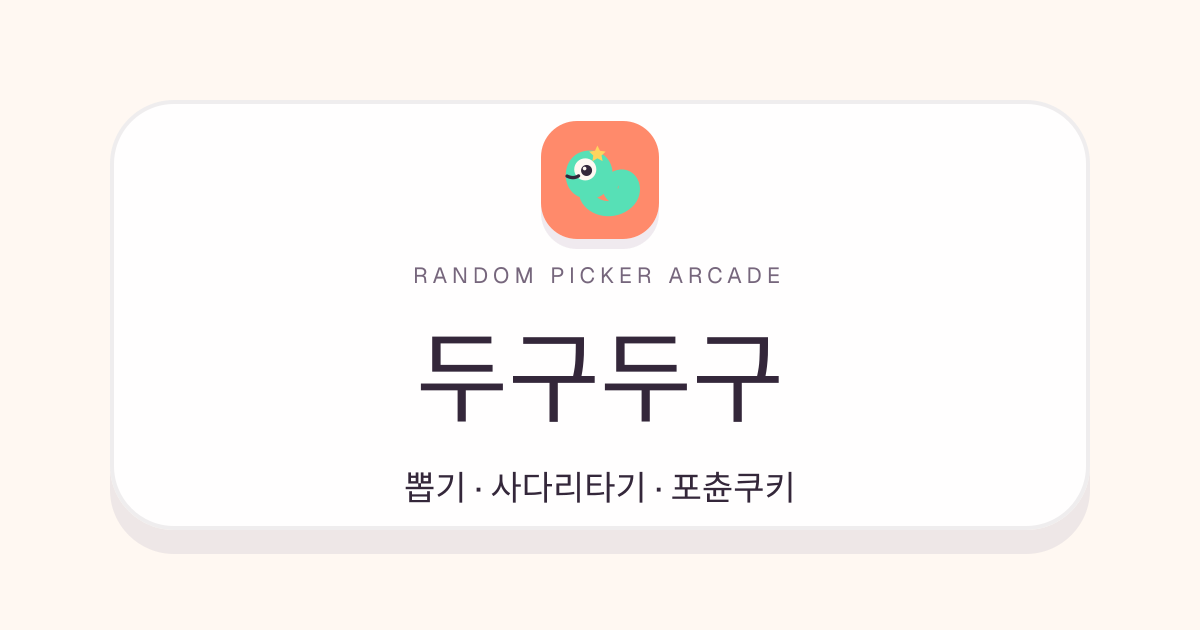
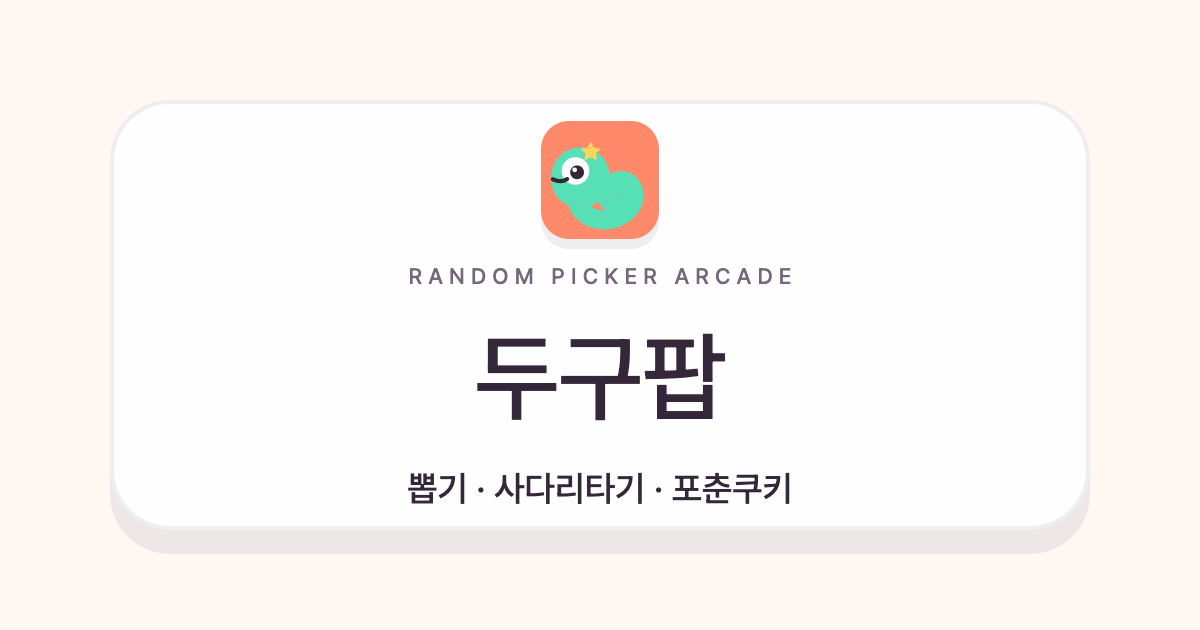
Rebrand to 두구팝 on dugupop.com
The product is now 두구팝 (Dugupop) at https://dugupop.com; the chameleon
mascot keeps its name 두구. Site names, titles, headings, structured-data
alternate names, the manifest, and the English lobby title (now carrying
keywords) use the new brand, and the social card is regenerated by a new
reproducible scripts/gen-social-card.mjs.

SITE_URL defaults to dugupop.com, so canonicals, hreflang, sitemap, robots,
and JSON-LD move with it. vercel.json 301s the former
dugudugu-chameleon.vercel.app host and www.dugupop.com to the apex with the
path kept, ahead of the legacy /ko and /games redirects; the redirect test
now covers host conditions. Sitemap lastmod reflects the rebrand.

diff --git a/lib/site.test.ts b/lib/site.test.ts
@@ -2,7 +2,7 @@ import { describe, expect, it } from "vitest";
 import { games } from "@/games/registry";
 import { localizedPathname, routing } from "@/i18n/routing";
 import vercelConfig from "@/vercel.json";
-import { languageAlternates, localizedPageUrl } from "./site";
+import { SITE_URL, languageAlternates, localizedPageUrl } from "./site";
 
 const pathnameOf = (url: string) => new URL(url).pathname;
 
@@ -25,15 +25,31 @@ describe("localized URLs", () => {
   });
 });
 
-describe("legacy URL redirects", () => {
-  // Mirrors Vercel's strict source matching for the `:param` rules used here.
-  function redirect(pathname: string) {
-    for (const rule of vercelConfig.redirects) {
+describe("URL redirects", () => {
+  type Rule = {
+    source: string;
+    destination: string;
+    statusCode: number;
+    has?: { type: string; value: string }[];
+  };
+  const rules: Rule[] = vercelConfig.redirects;
+  const canonicalHost = new URL(SITE_URL).host;
+
+  // Mirrors Vercel's strict matching for the `:param`, `:param(regex)`, and
+  // `has` host conditions used in vercel.json.
+  function redirect(pathname: string, host = canonicalHost) {
+    for (const rule of rules) {
+      if (rule.has?.some((when) => when.type === "host" && when.value !== host)) {
+        continue;
+      }
       const names: string[] = [];
-      const pattern = rule.source.replace(/:(\w+)/g, (_, name: string) => {
-        names.push(name);
-        return "([^/]+)";
-      });
+      const pattern = rule.source.replace(
+        /:(\w+)(?:\(([^)]*)\))?/g,
+        (_, name: string, custom?: string) => {
+          names.push(name);
+          return `(${custom ?? "[^/]+"})`;
+        },
+      );
       const match = new RegExp(`^${pattern}$`).exec(pathname);
       if (!match) continue;
 
@@ -46,6 +62,19 @@ describe("legacy URL redirects", () => {
     }
     return null;
   }
+
+  it("sends the former Vercel host and www to the canonical domain", () => {
+    for (const host of ["dugudugu-chameleon.vercel.app", "www.dugupop.com"]) {
+      expect(redirect("/", host)).toBe(`${SITE_URL}/`);
+      expect(redirect("/en/ladder/", host)).toBe(`${SITE_URL}/en/ladder/`);
+    }
+    expect(redirect("/ladder/")).toBeNull();
+
+    // An old share link reaches its page in two hops: host, then legacy path.
+    const hop = redirect("/ko/games/ladder/", "dugudugu-chameleon.vercel.app");
+    expect(hop).toBe(`${SITE_URL}/ko/games/ladder/`);
+    expect(redirect(new URL(hop!).pathname)).toBe("/ladder/");
+  });
 
   it("moves every former /<locale>/games/<slug> page to its canonical URL", () => {
     expect(redirect("/ko/")).toBe("/");

diff --git a/app/root-config.ts b/app/root-config.ts
@@ -39,23 +39,23 @@ export const rootMetadata: Metadata = {
   verification: {
     google: "V0LWQEMkzQlQoG6mGSp1UFldKcpsvuxhbgMof6G0fUE",
   },
-  applicationName: "두구두구",
+  applicationName: "두구팝",
   title: {
-    default: "사다리타기·랜덤 뽑기·포춘쿠키 미니게임 | 두구두구",
-    template: "%s | 두구두구",
+    default: "사다리타기·랜덤 뽑기·포춘쿠키 미니게임 | 두구팝",
+    template: "%s | 두구팝",
   },
   description:
-    "무료 사다리타기 게임, 캡슐 뽑기, 복불복 랜덤 선택, 포춘쿠키를 공정하고 귀엽게 즐기는 미니게임 두구두구.",
+    "무료 사다리타기 게임, 캡슐 뽑기, 복불복 랜덤 선택, 포춘쿠키를 공정하고 귀엽게 즐기는 미니게임 두구팝.",
   manifest: "/manifest.webmanifest",
   appleWebApp: {
     capable: true,
-    title: "두구두구",
+    title: "두구팝",
     statusBarStyle: "default",
   },
   openGraph: {
     type: "website",
-    siteName: "두구두구",
-    title: "두구두구 — 귀여운 랜덤 결정 아케이드",
+    siteName: "두구팝",
+    title: "두구팝 — 귀여운 랜덤 결정 아케이드",
     description:
       "캡슐 뽑기, 사다리타기, 포춘쿠키로 공정하고 귀엽게 결정해요.",
     images: [
@@ -63,7 +63,7 @@ export const rootMetadata: Metadata = {
         url: "/images/brand/social-card.png",
         width: 1200,
         height: 630,
-        alt: "두구두구 — 뽑기, 사다리타기, 포춘쿠키",
+        alt: "두구팝 — 뽑기, 사다리타기, 포춘쿠키",
       },
     ],
   },

diff --git a/lib/seo.test.ts b/lib/seo.test.ts
@@ -8,14 +8,14 @@ describe("gameJsonLd", () => {
       description: "무료 온라인 사다리타기 게임",
       url: "/ladder",
       locale: "ko",
-      alternateName: ["두구두구 사다리타기", "온라인 사다리 게임"],
+      alternateName: ["두구팝 사다리타기", "온라인 사다리 게임"],
       featureList: ["2–6명 사다리타기", "회원가입과 설치 없이 바로 이용"],
     });
 
     expect(data).toMatchObject({
       "@type": "WebApplication",
       name: "사다리타기",
-      alternateName: ["두구두구 사다리타기", "온라인 사다리 게임"],
+      alternateName: ["두구팝 사다리타기", "온라인 사다리 게임"],
       featureList: ["2–6명 사다리타기", "회원가입과 설치 없이 바로 이용"],
       inLanguage: "ko",
       isAccessibleForFree: true,

diff --git a/lib/seo.ts b/lib/seo.ts
@@ -14,12 +14,8 @@ export function websiteJsonLd() {
       {
         "@type": "WebSite",
         "@id": `${url}#website`,
-        name: "두구두구",
-        alternateName: [
-          "Dugudugu",
-          "두구두구 랜덤 아케이드",
-          hostname,
-        ],
+        name: "두구팝",
+        alternateName: ["Dugupop", "두구팝 미니게임", hostname],
         url,
         inLanguage: ["ko", "en"],
         publisher: { "@id": organizationId },
@@ -27,8 +23,8 @@ export function websiteJsonLd() {
       {
         "@type": "Organization",
         "@id": organizationId,
-        name: "두구두구",
-        alternateName: "Dugudugu",
+        name: "두구팝",
+        alternateName: "Dugupop",
         url,
         logo: {
           "@type": "ImageObject",

diff --git a/app/sitemap.ts b/app/sitemap.ts
@@ -5,12 +5,9 @@ import { languageAlternates, localizedPageUrl } from "@/lib/site";
 
 export const dynamic = "force-static";
 
-const DEFAULT_LAST_MEANINGFUL_UPDATE = new Date("2026-08-22T00:00:00+09:00");
-const GAME_LAST_MEANINGFUL_UPDATE: Partial<Record<string, Date>> = {
-  draw: new Date("2026-09-11T00:00:00+09:00"),
-  ladder: new Date("2026-09-11T00:00:00+09:00"),
-  fortune: new Date("2026-09-11T00:00:00+09:00"),
-};
+// The 두구팝 rebrand and dugupop.com move changed every page's title and URL.
+const DEFAULT_LAST_MEANINGFUL_UPDATE = new Date("2026-09-15T00:00:00+09:00");
+const GAME_LAST_MEANINGFUL_UPDATE: Partial<Record<string, Date>> = {};
 
 export default function sitemap(): MetadataRoute.Sitemap {
   const pages = [

diff --git a/app/manifest.ts b/app/manifest.ts
@@ -5,12 +5,10 @@ export const dynamic = "force-static";
 
 export default function manifest(): MetadataRoute.Manifest {
   return {
-    name: "두구두구 — 귀여운 랜덤 결정 아케이드",
-    short_name: "두구두구",
+    name: "두구팝 — 귀여운 랜덤 결정 아케이드",
+    short_name: "두구팝",
     description:
       "캡슐 뽑기, 사다리타기, 포춘쿠키로 공정하고 귀엽게 결정해요.",
-    // Installed apps are identified by the former start URL; keep that id.
-    id: "/ko/",
     start_url: "/",
     display: "standalone",
     background_color: "#fff8f2",

diff --git a/components/ui/TopBar.test.tsx b/components/ui/TopBar.test.tsx
@@ -26,10 +26,10 @@ afterEach(cleanup);
 
 describe("TopBar lobby brand", () => {
   it("keeps one clear home destination without utility controls", () => {
-    const view = render(<TopBar siteName="Dugudugu" />);
+    const view = render(<TopBar siteName="Dugupop" />);
 
     const header = view.getByRole("banner");
-    const home = view.getByRole("link", { name: "Dugudugu" });
+    const home = view.getByRole("link", { name: "Dugupop" });
 
     expect(header.className).toContain("z-40");
     expect(home.getAttribute("href")).toBe("/");

diff --git a/lib/site.ts b/lib/site.ts
@@ -1,6 +1,6 @@
 import { localizedPathname, routing, type Locale } from "@/i18n/routing";
 
-const FALLBACK_SITE_URL = "https://dugudugu-chameleon.vercel.app";
+const FALLBACK_SITE_URL = "https://dugupop.com";
 const configuredSiteUrl = process.env.NEXT_PUBLIC_SITE_URL?.trim();
 
 export const SITE_URL = (configuredSiteUrl || FALLBACK_SITE_URL).replace(

diff --git a/app/globals.css b/app/globals.css
@@ -332,7 +332,7 @@ a {
   filter: grayscale(0.15);
 }
 
-/* Shared Dugudugu action language: mint body, coral tail ring, soft toy depth. */
+/* Shared Dugupop action language: mint body, coral tail ring, soft toy depth. */
 .dugu-action-btn {
   --dugu-action: var(--candy-mint);
   position: relative;

diff --git a/AGENTS.md b/AGENTS.md
@@ -6,7 +6,11 @@ This version has breaking changes — APIs, conventions, and file structure may 
 
 ---
 
-# 두구두구 (Dugudugu) — Agent Guide
+# 두구팝 (Dugupop) — Agent Guide
+
+> Brand: the product is **두구팝 / Dugupop** (formerly 두구두구 / Dugudugu) at
+> `https://dugupop.com`. The chameleon mascot keeps its name **두구 / Dugu**.
+> Historical asset provenance and build-script notes may still say Dugudugu.
 
 > Single source of truth for **both Claude Code and Codex**. Read this before any change. `CLAUDE.md` imports this file, so Claude and Codex share these rules. Keep this file updated when a decision changes.
 
@@ -87,8 +91,11 @@ Techniques to reach for (use a subset per game, keep it snappy):
   `Link`/`useRouter` with a `locale` option force a `/ko` prefix, which only
   middleware could remove, so never pass that option. Former
   `/ko/…` and `/<locale>/games/<slug>/` URLs 301 to the new paths through
-  `vercel.json`, preserving legacy share queries; `lib/site.test.ts` checks
-  that every registry game keeps a redirect.
+  `vercel.json`, preserving legacy share queries. The canonical host is
+  `dugupop.com` (`SITE_URL` fallback in `lib/site.ts`); `vercel.json` first
+  301s the former `dugudugu-chameleon.vercel.app` host and `www.dugupop.com`
+  to it with the path kept. `lib/site.test.ts` checks the host redirects and
+  that every registry game keeps its legacy redirect.
 - **i18n**: every layout and page calls `setRequestLocale(locale)` with its
   fixed tree locale. All copy in
   `messages/{ko,en}.json`; game copy lives under `games.<id>.*`
@@ -289,7 +296,8 @@ GLBs without redistributing the licensed race source
 `.blend`; the fortune source and CC-BY attribution are preserved locally.
 Meshy MCP remains optional;
 the product no longer depends on a paid generation/download path. Static
-sitemap, robots, manifest, and OG image assets ship with the export. The
+sitemap, robots, manifest, and OG image assets ship with the export; the
+brand social card is regenerated with `node scripts/gen-social-card.mjs`. The
 domain root is the Korean lobby itself, not a redirect stub, and carries the
 preferred WebSite/Organization name and logo signals,
 including a lowercase hostname fallback, every layout declares one stable SVG
@@ -302,5 +310,6 @@ intents with concise free-online-game titles, natural use-case copy, branded
 alternate names, and structured feature data while keeping the play surfaces
 unchanged; the Korean lobby title adds the broad 미니게임 intent. Game URLs
 are short root slugs such as `/ladder/`. The
-production origin is `https://dugudugu-chameleon.vercel.app`; the next gates are
+production origin is `https://dugupop.com`; the former
+`https://dugudugu-chameleon.vercel.app` host redirects to it. The next gates are
 final real-device a11y/performance QA and search-console indexing checks.

diff --git a/public/images/brand/README.md b/public/images/brand/README.md
@@ -2,7 +2,8 @@
 
 - Asset: `dugu-mascot-640.webp`
 - Created: 2026-08-10 with OpenAI ImageGen from an original text prompt
-- Intended use: Dugudugu product mascot and decorative brand artwork
+- Intended use: Dugupop (formerly Dugudugu) product mascot and decorative brand
+  artwork
 - Editing: magenta-key background removal, transparent-edge cleanup, and
   optimized transparent 640 px WebP export; no third-party reference image was
   supplied
@@ -14,9 +15,10 @@ eyes, clean rounded silhouette, and no text, watermark, clothing, or props.
 The favicon/install mark is separately code-native (`public/brand-icon.svg` and
 `scripts/gen_brand_icons.py`) so it stays legible at very small sizes.
 
-`social-card.png` is the 1200×630 static social lockup exported from the same
-code-native chameleon mark. Keeping it as a stable public asset avoids dynamic
-metadata-route hashes in the fully static build.
+`social-card.png` is the 1200×630 static social lockup rendered from the same
+code-native chameleon mark by `node scripts/gen-social-card.mjs`. Keeping it as
+a stable public asset avoids dynamic metadata-route hashes in the fully static
+build.
 
 ## Result peeker
 

diff --git a/README.md b/README.md
@@ -1,4 +1,6 @@
-# 두구두구 (Dugudugu)
+# 두구팝 (Dugupop)
+
+https://dugupop.com · 이전 이름: 두구두구 (Dugudugu). 카멜레온 마스코트 이름은 "두구"입니다.
 
 간단한 항목이나 인원만 고르면 뽑기, 사다리타기, 경주를 짧은 게임 연출로 즐길 수 있는 랜덤 결정 아케이드입니다. 결과는 시드 기반으로 먼저 확정되고, 3D 또는 2D 애니메이션은 그 결과를 재생합니다. 예전 결과 URL은 계속 재현되지만, 의미 없는 URL 복사만 제공하던 공통 공유 버튼은 결과 화면에서 노출하지 않습니다.
 
@@ -25,7 +27,7 @@ pnpm test
 pnpm build
 ```
 
-`pnpm build` 결과는 `out/`에 생성됩니다. 배포 시 `NEXT_PUBLIC_SITE_URL`을 실제 도메인으로 설정해야 canonical/JSON-LD URL이 정확해집니다.
+`pnpm build` 결과는 `out/`에 생성됩니다. canonical/JSON-LD/sitemap URL은 기본값 `https://dugupop.com`을 쓰며, 다른 도메인에 배포할 때만 `NEXT_PUBLIC_SITE_URL`로 덮어씁니다. 소셜 카드 이미지는 `node scripts/gen-social-card.mjs`로 다시 만듭니다.
 
 ## 구조
 
